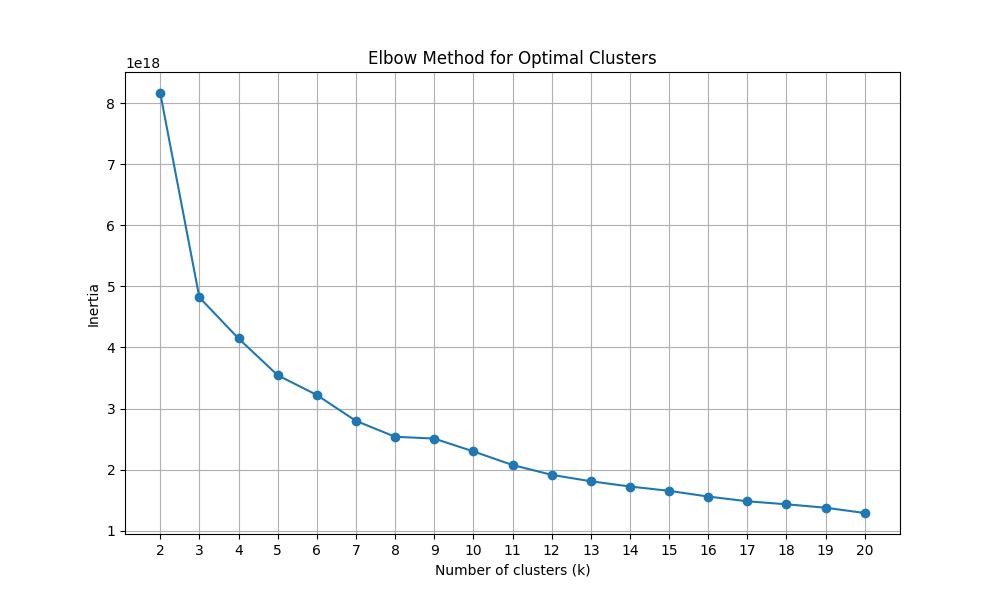
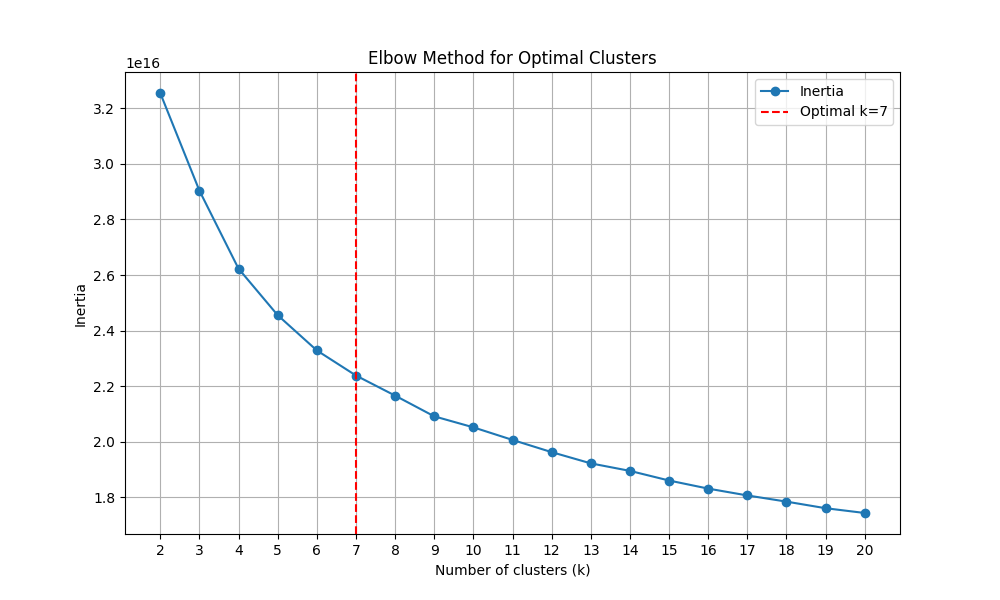
Add files via upload

diff --git a/sig_kernel.py b/sig_kernel.py
@@ -3,67 +3,165 @@ import pandas as pd
 from sklearn.cluster import KMeans
 import matplotlib.pyplot as plt
 from tqdm import tqdm
+from kneed import KneeLocator
+from joblib import Parallel, delayed
 
-sig = pd.read_csv("df_train_wdate.csv")
+################################################################################
+#                                TRAINING
+################################################################################
 
-# Get the unique stock IDs
-all_stock_ids = sorted(sig["STOCK"].unique())
+print("Loading dataset...")
+df_train = pd.read_csv("df_train_wdate.csv")
 
-# Compute kernel and distance functions
+# Unique training stock IDs
+all_stock_ids = sorted(df_train["STOCK"].unique())
+
+# Kernel & distance computations
 def compute_kernel(df):
     cols = [c for c in df.columns if c.startswith("SIG_")]
     features = df[cols].values.astype(np.float32)
-    kernel = features @ features.T
+    kernel = np.einsum('ij,kj->ik', features, features)  # float32 kernel
     return pd.DataFrame(kernel, index=df["STOCK"], columns=df["STOCK"])
 
 def compute_signature_distance(kernel_df):
     k = kernel_df.values
     diag = np.diag(k)
-    dist = diag[:, None] - 2 * k + diag[None, :]
+    dist = np.abs(diag[:, None] - 2 * k + diag[None, :])  # float64 or float32 (we'll fix later)
     return pd.DataFrame(dist, index=kernel_df.index, columns=kernel_df.columns)
 
-# Initialize distance accumulator
-distance_sum = pd.DataFrame(0.0, index=all_stock_ids, columns=all_stock_ids)
-counts = pd.DataFrame(0, index=all_stock_ids, columns=all_stock_ids)
+# Initialize distance accumulation
+print("Initializing distance accumulation...")
+distance_sum = pd.DataFrame(0.0, index=all_stock_ids, columns=all_stock_ids, dtype=np.float32)
+counts = pd.DataFrame(0, index=all_stock_ids, columns=all_stock_ids, dtype=np.int32)
 
-# Accumulate distances across all dates
-for date, group in tqdm(sig.groupby('DATE'), desc="Processing Dates"):
+# Parallel function for each date
+def process_date(group):
     kernel_df = compute_kernel(group)
     dist_df = compute_signature_distance(kernel_df)
+    return dist_df
+
+print("Computing distance matrices for each date...")
+results = Parallel(n_jobs=-1)(
+    delayed(process_date)(group) for _, group in tqdm(df_train.groupby('DATE'), desc="Processing Dates")
+)
+
+# Accumulate results
+print("Accumulating distance matrices...")
+for dist_df in tqdm(results, desc="Accumulating distances"):
     dist_reindexed = dist_df.reindex(index=all_stock_ids, columns=all_stock_ids)
     mask = ~dist_reindexed.isna()
-    distance_sum[mask] += dist_reindexed[mask]
+    # Convert slice to float32 here to ensure consistency
+    distance_sum[mask] += dist_reindexed[mask].astype(np.float32)
     counts[mask] += 1
 
-# Calculate average distances
-avg_distance = distance_sum / counts
-avg_distance = avg_distance.fillna(avg_distance.max().max())
+# Compute average distance
+print("Calculating average distances...")
+avg_distance = distance_sum / counts.replace(0, np.nan)  # Avoid division by 0
 
-# Elbow method to determine best k
-inertia_values = []
+# Replace any remaining NaNs with the mean
+mean_val = float(avg_distance.mean().mean())  # float() helps avoid potential Series dtypes
+avg_distance.fillna(mean_val, inplace=True)
+
+# Ensure avg_distance is float32
+avg_distance_32 = avg_distance.values.astype(np.float32)
+
+# Elbow method
+print("Finding optimal k using the elbow method...")
 k_range = range(2, 21)
-for k in tqdm(k_range, desc="Finding optimal k"):
-    kmeans = KMeans(n_clusters=k, random_state=42, n_init='auto')
-    kmeans.fit(avg_distance)
-    inertia_values.append(kmeans.inertia_)
+inertia_values = []
+for k in tqdm(k_range, desc="Evaluating K-Means"):
+    kmeans_temp = KMeans(n_clusters=k, random_state=42, n_init=10)
+    kmeans_temp.fit(avg_distance_32)
+    inertia_values.append(kmeans_temp.inertia_)
 
-# Plot elbow graph
+knee_locator = KneeLocator(k_range, inertia_values, curve='convex', direction='decreasing')
+optimal_k = knee_locator.elbow
+print(f"Optimal number of clusters found: k={optimal_k}")
+
+# Plot elbow
+print("Generating elbow method plot...")
 plt.figure(figsize=(10, 6))
-plt.plot(k_range, inertia_values, 'o-')
+plt.plot(k_range, inertia_values, 'o-', label="Inertia")
+plt.axvline(optimal_k, color='red', linestyle='--', label=f"Optimal k={optimal_k}")
 plt.xlabel('Number of clusters (k)')
 plt.ylabel('Inertia')
 plt.title('Elbow Method for Optimal Clusters')
+plt.legend()
 plt.grid(True)
-plt.xticks(k_range)
+plt.xticks(list(k_range))
 plt.savefig('elbow_method.png')
 plt.show()
+print("Elbow method plot saved as 'elbow_method.png'")
 
-# Choose optimal k (manually identified from elbow graph, e.g., 10)
-optimal_k = 10
-kmeans_final = KMeans(n_clusters=optimal_k, random_state=42, n_init='auto')
-labels = kmeans_final.fit_predict(avg_distance)
+# Final K-Means
+print(f"Performing final K-Means clustering with k={optimal_k}...")
+kmeans_final = KMeans(n_clusters=optimal_k, random_state=42, n_init=10)
+kmeans_final.fit(avg_distance_32)  # Train on float32 array
+labels = kmeans_final.labels_
+print("Clustering completed.")
 
-# Save cluster results
-clusters_df = pd.DataFrame({"stock": all_stock_ids, "cluster": labels})
-clusters_df.to_csv("stock_clusters_kmeans.csv", index=False)
-avg_distance.to_csv("avg_distance_matrix_between_stocks.csv", index=True)
+# (Optional) Save cluster results
+# clusters_df = pd.DataFrame({"stock": all_stock_ids, "cluster": labels})
+# clusters_df.to_csv("stock_clusters_kmeans.csv", index=False)
+# print("Stock clusters saved to 'stock_clusters_kmeans.csv'.")
+
+# (Optional) Save average distance matrix
+# pd.DataFrame(avg_distance_32, index=all_stock_ids, columns=all_stock_ids).to_csv(
+#     "avg_distance_matrix_between_stocks.csv", index=True)
+# print("Average distance matrix saved to 'avg_distance_matrix_between_stocks.csv'.")
+
+# (Optional) Store centroids in float32
+# centroids_32 = kmeans_final.cluster_centers_.astype(np.float32)
+# np.save("kmeans_centroids.npy", centroids_32)
+# print("Centroids saved as 'kmeans_centroids.npy'.")
+
+# Map clusters to training set
+print("Adding cluster assignments to original dataset...")
+stock_to_cluster = dict(zip(all_stock_ids, labels))
+df_train["CLUSTER"] = df_train["STOCK"].map(stock_to_cluster)
+df_train.to_csv("df_train_wdate_wclusters.csv", index=False)
+print("Updated dataset saved to 'df_train_wdate_wclusters.csv'.")
+
+
+################################################################################
+#                                TESTING
+################################################################################
+
+print("Loading test dataset...")
+df_test = pd.read_csv("df_test_wdate.csv")
+
+# Get unique stock IDs in test
+test_stock_ids = sorted(df_test["STOCK"].unique())
+
+# Compute kernel for unique test stocks
+print("Computing kernel for test dataset...")
+df_test_unique = df_test.drop_duplicates(subset=["STOCK"])
+kernel_test = compute_kernel(df_test_unique)
+
+# Compute distance matrix for test stocks
+print("Computing distance matrix for test dataset...")
+dist_test = compute_signature_distance(kernel_test)
+
+# Reindex to match training shape
+dist_test_reindexed = dist_test.reindex(index=all_stock_ids, columns=all_stock_ids)
+
+# Fill NaNs with mean
+dist_test_mean = float(dist_test_reindexed.mean().mean())
+dist_test_reindexed.fillna(dist_test_mean, inplace=True)
+
+# Convert to float32
+dist_test_array_32 = dist_test_reindexed.values.astype(np.float32)
+
+# Predict clusters on test data
+print("Assigning test data to clusters...")
+labels_test = kmeans_final.predict(dist_test_array_32)
+
+# Map cluster labels back to full test data
+test_stock_to_cluster = dict(zip(test_stock_ids, labels_test))
+df_test["CLUSTER"] = df_test["STOCK"].map(test_stock_to_cluster)
+
+# Save updated test set
+df_test.to_csv("df_test_wdate_wclusters.csv", index=False)
+print("Updated test dataset saved to 'df_test_wdate_wclusters.csv'.")
+
+print("\n Complete!")
